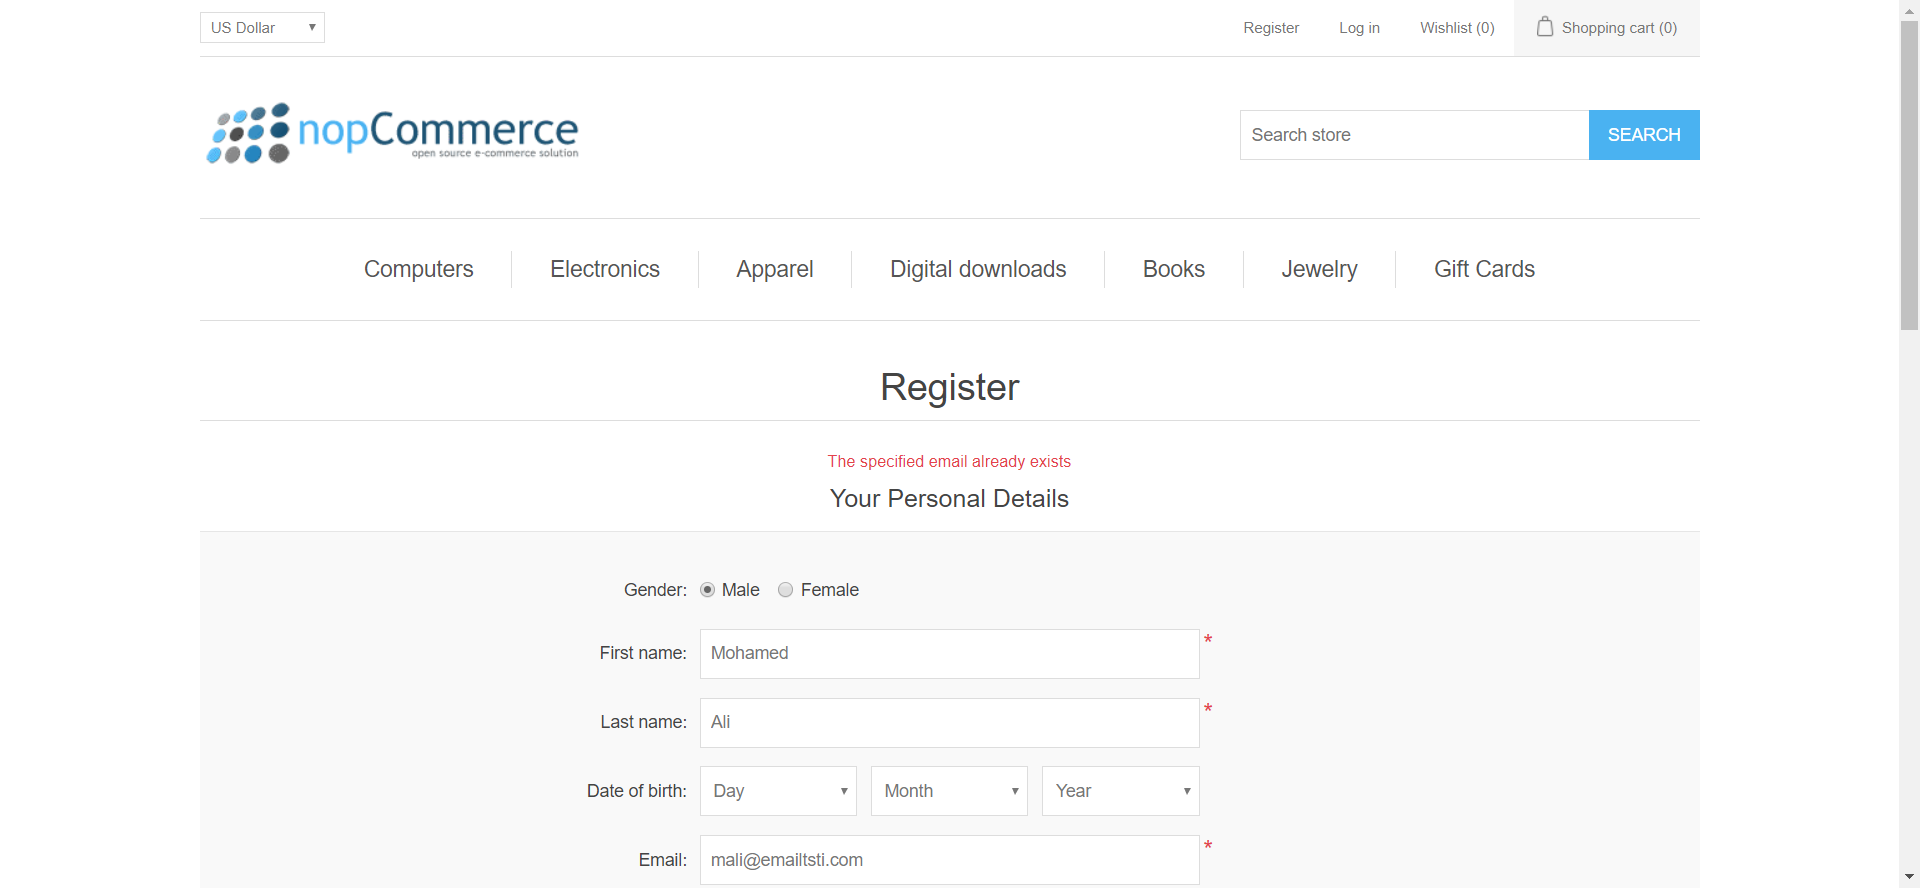
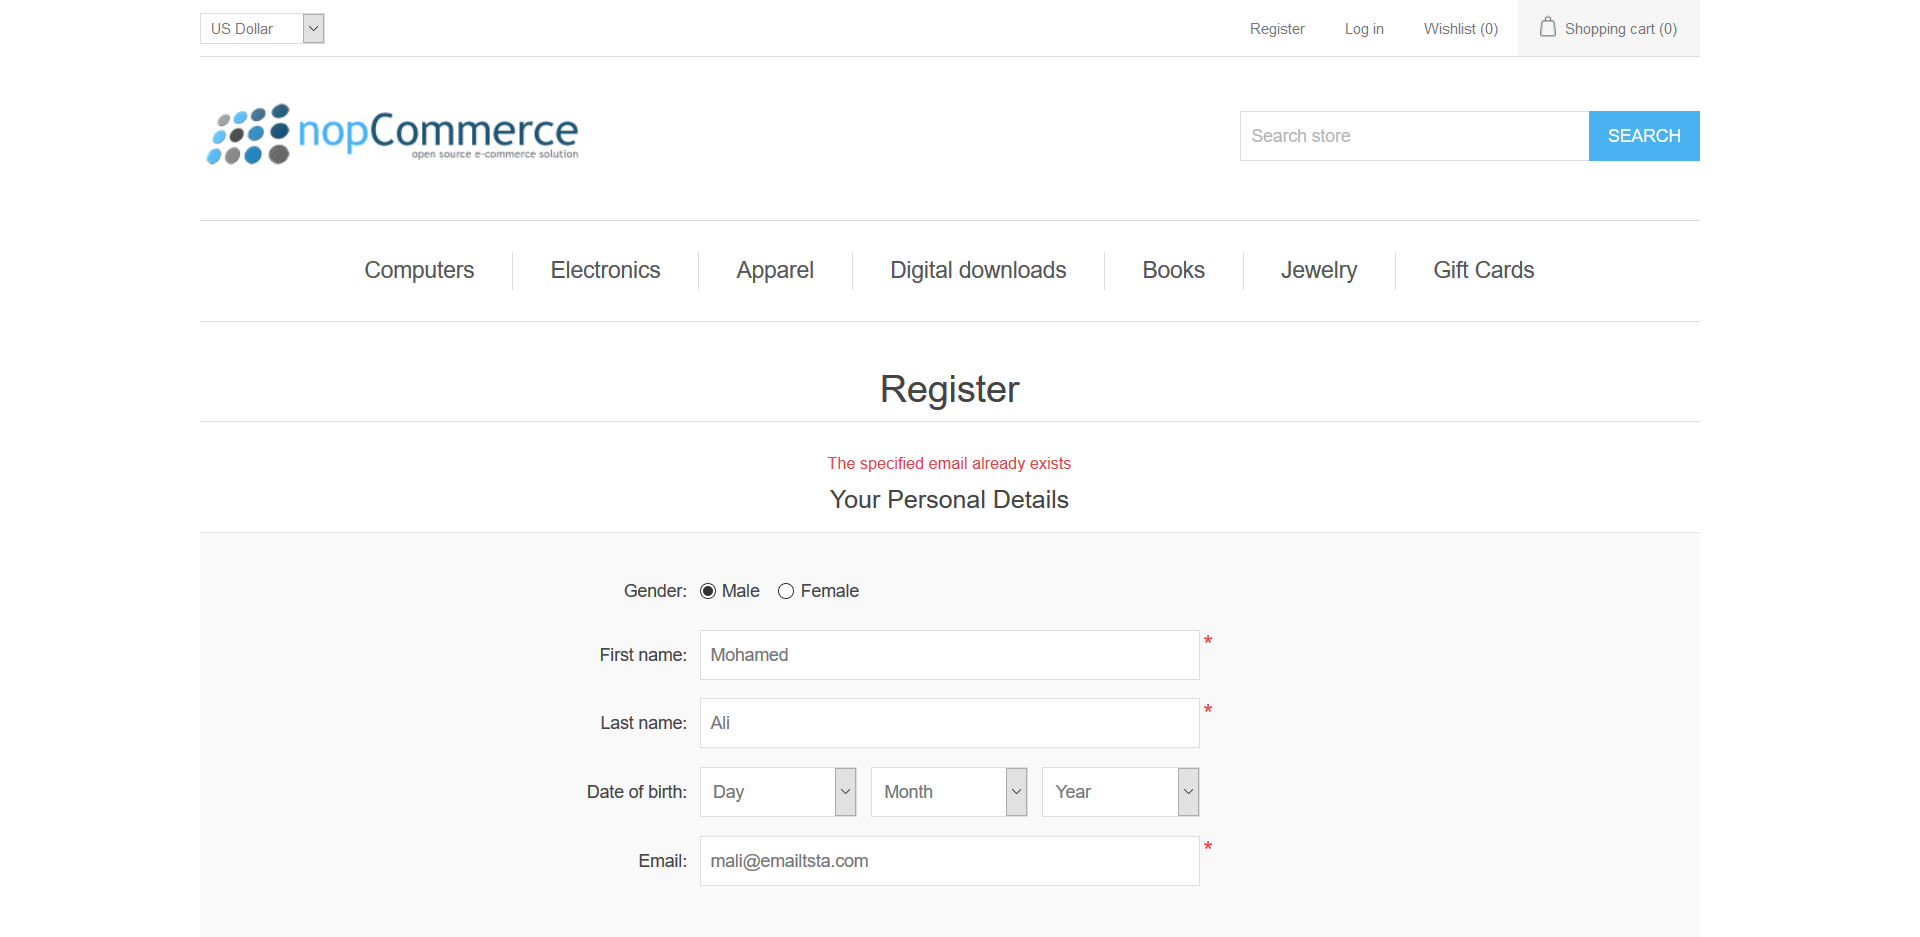
Run from cmd

diff --git a/src/test/java/tests/UserRegistrationTest.java b/src/test/java/tests/UserRegistrationTest.java
@@ -16,7 +16,7 @@ public class UserRegistrationTest extends TestBase {
         homeObject = new HomePage(driver);
         homeObject.openRegistrationPage();
         registerObject = new UserRegistrationPage(driver);
-        registerObject.userRegistration("Mohamed", "Ali", "mali@emailtsti.com","123456789");
+        registerObject.userRegistration("Mohamed", "Ali", "mali@emailtsta.com","123456789");
         Assert.assertTrue(registerObject.successfulMessage.getText().contains("Your registration completed"));
     }
 }

diff --git a/src/main/java/pages/SearchPage.java b/src/main/java/pages/SearchPage.java
@@ -38,9 +38,9 @@ public class SearchPage extends PageBase {
     {
         setTextElemntText(searchTextbox, searchText);
         try {
-            Thread.sleep(1000);
+            Thread.sleep(2000);
         } catch (InterruptedException e) {
-            System.out.println("Error Occured" + e.getMessage());
+            System.out.println("Error Occurred" + e.getMessage());
         }
         productList.get(0).click();
     }
